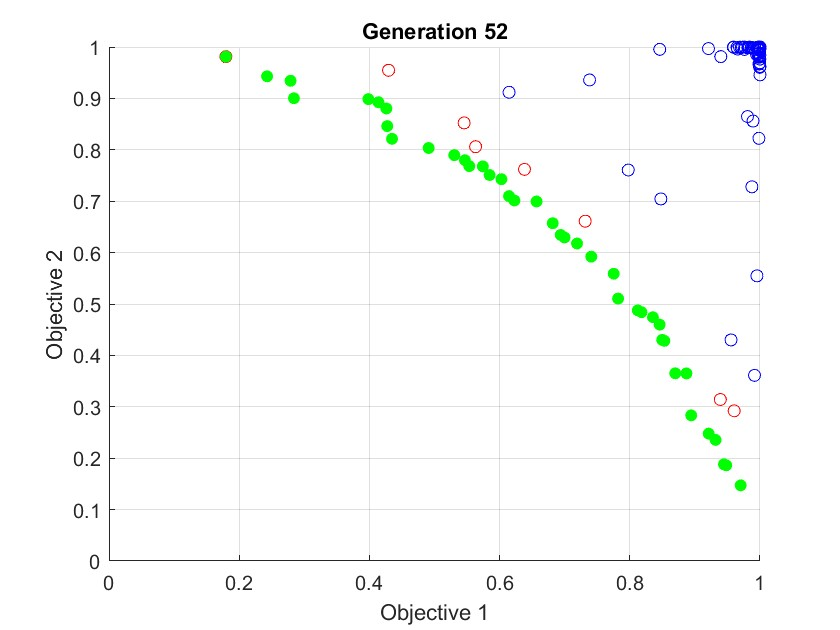
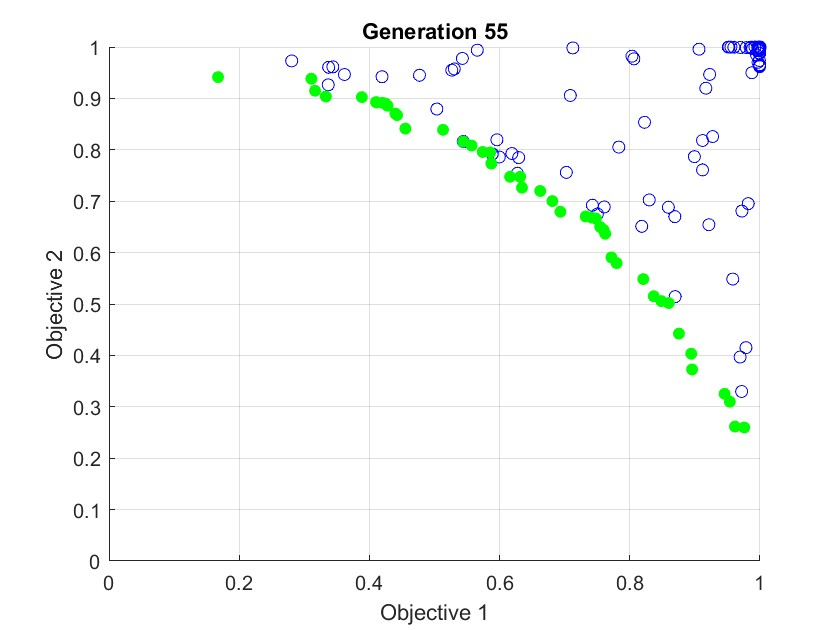
dagur9ex3 ready

diff --git a/Dagur9/Exercise1/exercise_1.m b/Dagur9/Exercise1/exercise_1.m
@@ -11,10 +11,10 @@ N = 100;            % Population size
 max_gens = 200;     % Maximum number of generations
 dimensions_ff = 8;  % Dimensions for ff functions
 dimensions_ft = 3;  % Dimensions for ft functions
-pc = 0.9;           % Crossover probability
+pc = 0.7;           % Crossover probability
 pm = 0.05;           % Mutation probability
-sigma_share = 0.1;  % Sharing distance
-sigma_m = 0.1;      % Mating distance
+sigma_share = 0.5;  % Sharing distance
+sigma_m = 0.3;      % Mating distance
 bounds_ff = repmat([-2 2], dimensions_ff, 1); % Bounds for ff functions
 bounds_ft = [0.5 1; -2 2; -2 2]; % Bounds for ft functions
 
@@ -23,91 +23,78 @@ pc_values = [0.5, 0.7, 0.9];
 pm_values = [0.05, 0.1, 0.2];
 sigma_m_values = [0.1, 0.3, 0.5];
 sigma_share_values = [0.1, 0.3, 0.5];
-
+% [Pareto_front_ff, Pareto_set_ff] = MOEA(@ff, dimensions_ff, bounds_ff, N, max_gens, pc, pm, sigma_share, sigma_m, [0 1], [0 1], true, true);
 % Run experiments for crossover probability
-% for pc = pc_values
-%     [Pareto_front_ff, Pareto_set_ff] = MOEA(@ff, dimensions_ff, bounds_ff, N, max_gens, pc, pm, sigma_share, sigma_m, [0 1], [0 1], true, true);
-%     % Record and analyze results
-% end
-pc = 0.9;
+for pc = pc_values
+    [~, ~] = MOEA(@ff, dimensions_ff, bounds_ff, N, max_gens, pc, pm, sigma_share, sigma_m, [0 1], [0 1], true, true);
+end
+pc = 0.7;
 % Run experiments for mutation probability
-% for pm = pm_values
-%     [Pareto_front_ff, Pareto_set_ff] = MOEA(@ff, dimensions_ff, bounds_ff, N, max_gens, pc, pm, sigma_share, sigma_m, [0 1], [0 1], true, true);
-%     % Record and analyze results
-% end
-pm = 0.05;  
+for pm = pm_values
+    [~, ~] = MOEA(@ff, dimensions_ff, bounds_ff, N, max_gens, pc, pm, sigma_share, sigma_m, [0 1], [0 1], true, true);
+end
+pm = 0.1;  
 % Run experiments for mutation distribution (sigma_m)
 for sigma_m = sigma_m_values
-    [Pareto_front_ff, Pareto_set_ff] = MOEA(@ff, dimensions_ff, bounds_ff, N, max_gens, pc, pm, sigma_share, sigma_m, [0 1], [0 1], true, true);
-    % Record and analyze results
+    [~, ~] = MOEA(@ff, dimensions_ff, bounds_ff, N, max_gens, pc, pm, sigma_share, sigma_m, [0 1], [0 1], true, true);
 end
 
 % Run experiments for sharing distance (sigma_share)
 for sigma_share = sigma_share_values
-    [Pareto_front_ff, Pareto_set_ff] = MOEA(@ff, dimensions_ff, bounds_ff, N, max_gens, pc, pm, sigma_share, sigma_m, [0 1], [0 1], true, true);
-    % Record and analyze results
+    [~, ~] = MOEA(@ff, dimensions_ff, bounds_ff, N, max_gens, pc, pm, sigma_share, sigma_m, [0 1], [0 1], true, true);
 end
-pc = 0.9;           % Crossover probability
-pm = 0.05;           % Mutation probability
+% These values were determined to work the best visually
+pc = 0.7;           % Crossover probability
+pm = 0.1;           % Mutation probability
 sigma_share = 0.5;  % Sharing distance
-sigma_m = 0.5;      % Mating distance
+sigma_m = 0.3;      % Mating distance
 % Run experiments to test the importance of sharing and mating restrictions
-% % With sharing and mating restrictions
-% [Pareto_front_ff, Pareto_set_ff] = MOEA(@ff, dimensions_ff, bounds_ff, N, max_gens, pc, pm, sigma_share, sigma_m, [0 1], [0 1], true, true);
-% 
-% % Without sharing
-% [Pareto_front_ff, Pareto_set_ff] = MOEA(@ff, dimensions_ff, bounds_ff, N, max_gens, pc, pm, sigma_share, sigma_m, [0 1], [0 1], false, true);
-% 
-% % Without mating restrictions
-% [Pareto_front_ff, Pareto_set_ff] = MOEA(@ff, dimensions_ff, bounds_ff, N, max_gens, pc, pm, sigma_share, sigma_m, [0 1], [0 1], true, false);
-% 
-% % Without both sharing and mating restrictions
-% [Pareto_front_ff, Pareto_set_ff] = MOEA(@ff, dimensions_ff, bounds_ff, N, max_gens, pc, pm, sigma_share, sigma_m, [0 1], [0 1], false, false);
+% With sharing and mating restrictions
+[~, ~] = MOEA(@ff, dimensions_ff, bounds_ff, N, max_gens, pc, pm, sigma_share, sigma_m, [0 1], [0 1], true, true);
+
+% Without sharing
+[~, ~] = MOEA(@ff, dimensions_ff, bounds_ff, N, max_gens, pc, pm, sigma_share, sigma_m, [0 1], [0 1], false, true);
+
+% Without mating restrictions
+[~, ~] = MOEA(@ff, dimensions_ff, bounds_ff, N, max_gens, pc, pm, sigma_share, sigma_m, [0 1], [0 1], true, false);
+
+% Without both sharing and mating restrictions
+[~, ~] = MOEA(@ff, dimensions_ff, bounds_ff, N, max_gens, pc, pm, sigma_share, sigma_m, [0 1], [0 1], false, false);
 
 %%
 %ft
-pm = 0.1;
-sigma_m = 0.6;
-sigma_share = 0.6;
-[Pareto_front_ft, Pareto_set_ft] = MOEA(@ft, dimensions_ft, bounds_ft, N, max_gens, pc, pm, sigma_share, sigma_m, [0.5 1], [0 5], true, true);
-%%
-
 % Run experiments for crossover probability
 for pc = pc_values
-    [Pareto_front_ft, Pareto_set_ft] = MOEA(@ft, dimensions_ft, bounds_ft, N, max_gens, pc, pm, sigma_share, sigma_m, [0.5 1], [0 5], true, true);
-    % Record and analyze results
+    [~, ~] = MOEA(@ft, dimensions_ft, bounds_ft, N, max_gens, pc, pm, sigma_share, sigma_m, [0.5 1], [0 5], true, true);
 end
 
 % Run experiments for mutation probability
 for pm = pm_values
-    [Pareto_front_ft, Pareto_set_ft] = MOEA(@ft, dimensions_ft, bounds_ft, N, max_gens, pc, pm, sigma_share, sigma_m, [0.5 1], [0 5], true, true);
-    % Record and analyze results
+    [~, ~] = MOEA(@ft, dimensions_ft, bounds_ft, N, max_gens, pc, pm, sigma_share, sigma_m, [0.5 1], [0 5], true, true);
 end
 
 % Run experiments for mutation distribution (sigma_m)
 for sigma_m = sigma_m_values
-    [Pareto_front_ft, Pareto_set_ft] = MOEA(@ft, dimensions_ft, bounds_ft, N, max_gens, pc, pm, sigma_share, sigma_m, [0.5 1], [0 5], true, true);
-    % Record and analyze results
+    [~, ~] = MOEA(@ft, dimensions_ft, bounds_ft, N, max_gens, pc, pm, sigma_share, sigma_m, [0.5 1], [0 5], true, true);
 end
 
 % Run experiments for sharing distance (sigma_share)
 for sigma_share = sigma_share_values
-    [Pareto_front_ft, Pareto_set_ft] = MOEA(@ft, dimensions_ft, bounds_ft, N, max_gens, pc, pm, sigma_share, sigma_m, [0.5 1], [0 5], true, true);
-    % Record and analyze results
+    [~, ~] = MOEA(@ft, dimensions_ft, bounds_ft, N, max_gens, pc, pm, sigma_share, sigma_m, [0.5 1], [0 5], true, true);
 end
 
 % Run experiments to test the importance of sharing and mating restrictions
 % With sharing and mating restrictions
-[Pareto_front_ft, Pareto_set_ft] = MOEA(@ft, dimensions_ft, bounds_ft, N, max_gens, pc, pm, sigma_share, sigma_m, [0.5 1], [0 5], true, true);
+[~, ~] = MOEA(@ft, dimensions_ft, bounds_ft, N, max_gens, pc, pm, sigma_share, sigma_m, [0.5 1], [0 5], true, true);
 
 % Without sharing
-[Pareto_front_ft, Pareto_set_ft] = MOEA(@ft, dimensions_ft, bounds_ft, N, max_gens, pc, pm, sigma_share, sigma_m, [0.5 1], [0 5], false, true);
+[~, ~] = MOEA(@ft, dimensions_ft, bounds_ft, N, max_gens, pc, pm, sigma_share, sigma_m, [0.5 1], [0 5], false, true);
 
 % Without mating restrictions
-[Pareto_front_ft, Pareto_set_ft] = MOEA(@ft, dimensions_ft, bounds_ft, N, max_gens, pc, pm, sigma_share, sigma_m, [0.5 1], [0 5], true, false);
+[~, ~] = MOEA(@ft, dimensions_ft, bounds_ft, N, max_gens, pc, pm, sigma_share, sigma_m, [0.5 1], [0 5], true, false);
 
 % Without both sharing and mating restrictions
-[Pareto_front_ft, Pareto_set_ft] = MOEA(@ft, dimensions_ft, bounds_ft, N, max_gens, pc, pm, sigma_share, sigma_m, [0.5 1], [0 5], false, false);
+[~, ~] = MOEA(@ft, dimensions_ft, bounds_ft, N, max_gens, pc, pm, sigma_share, sigma_m, [0.5 1], [0 5], false, false);
 
 function obj_vals = ff(x)
     oneOverSqrt8 = 1/sqrt(8);
@@ -118,7 +105,7 @@ end
 
 function obj_vals = ft(x)
     ft1 = x(1);
-    ft2 = (1/x(1)) * (1 + (x(2)^2 + x(3)^2)^0.25 * ((sin(50 * (x(2)^2 + x(3)^2)^0.1))^2 + 1));
+    ft2 = (1/x(1)) * (1 + (x(2).^2 + x(3).^2).^0.25 * ((sin(50 * (x(2).^2 + x(3).^2).^0.1)).^2 + 1));
     obj_vals = [ft1, ft2];
 end
 function [Pareto_front, Pareto_set] = MOEA(objective_funcs, dimensions, bounds, N, max_gens, pc, pm, sigma_share, sigma_m, plotxlim, plotylim, share_res, mate_res)
@@ -135,11 +122,14 @@ function [Pareto_front, Pareto_set] = MOEA(objective_funcs, dimensions, bounds, 
         Obj_values = evaluate_population(Population, objective_funcs);
         
         % Update Pareto front and Pareto set
-        [Pareto_front, Pareto_set] = update_pareto_front(Population, Obj_values);
-
+        [newPareto_front, newPareto_set] = update_pareto_front(Population, Obj_values);
+        Pareto_set = [Pareto_set;newPareto_set];
+        Pareto_front = [Pareto_front;newPareto_front];
+        ParetoObj_values = evaluate_population(Pareto_set, objective_funcs);
+        [Pareto_front, Pareto_set] = update_pareto_front(Pareto_set, ParetoObj_values);
         % Archive non-dominated individuals
-        % [archive_front,archive_set] = update_archive(archive_set, Population, Obj_values);
         if share_res
+            size(Population);
             [archive_front,archive_set] = update_archive_shared_fitness(archive_set, Population, Obj_values, sigma_share);
         else
             [archive_front,archive_set] = update_archive(archive_set, Population, Obj_values);
@@ -173,8 +163,8 @@ function [Pareto_front, Pareto_set] = MOEA(objective_funcs, dimensions, bounds, 
         hold on;
         grid on
         scatter(Obj_values(:, 1), Obj_values(:, 2), 'bo');
-        scatter(Pareto_front(:, 1), Pareto_front(:, 2), 'ro');
-        scatter(archive_front(:, 1), archive_front(:, 2), 'go', 'filled');
+        scatter(Pareto_front(:, 1), Pareto_front(:, 2), 'ro', 'filled');
+        % scatter(archive_front(:, 1), archive_front(:, 2), 'go', 'filled');
         xlim(plotxlim);
         ylim(plotylim);
         title(sprintf('Generation %d', gen));
@@ -184,7 +174,7 @@ function [Pareto_front, Pareto_set] = MOEA(objective_funcs, dimensions, bounds, 
         hold off;
         
         % Termination condition based on convergence measure
-        if gen > 50 && (abs(p(gen)-1)) < 0.001
+        if gen > 50 && (abs(p(gen)-1)) < 0.01
             break;
         end
     end
